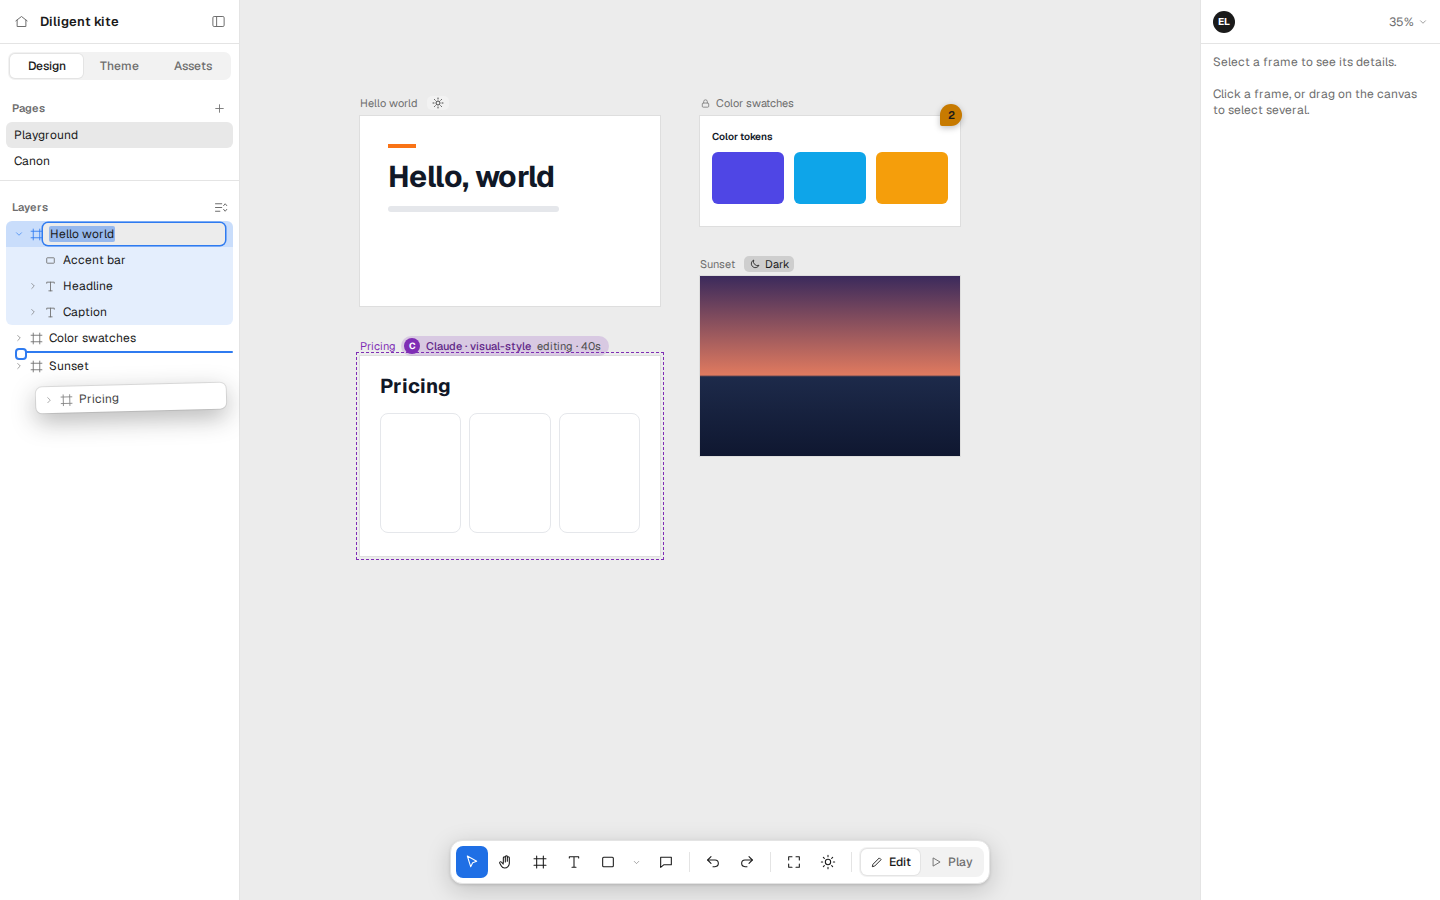
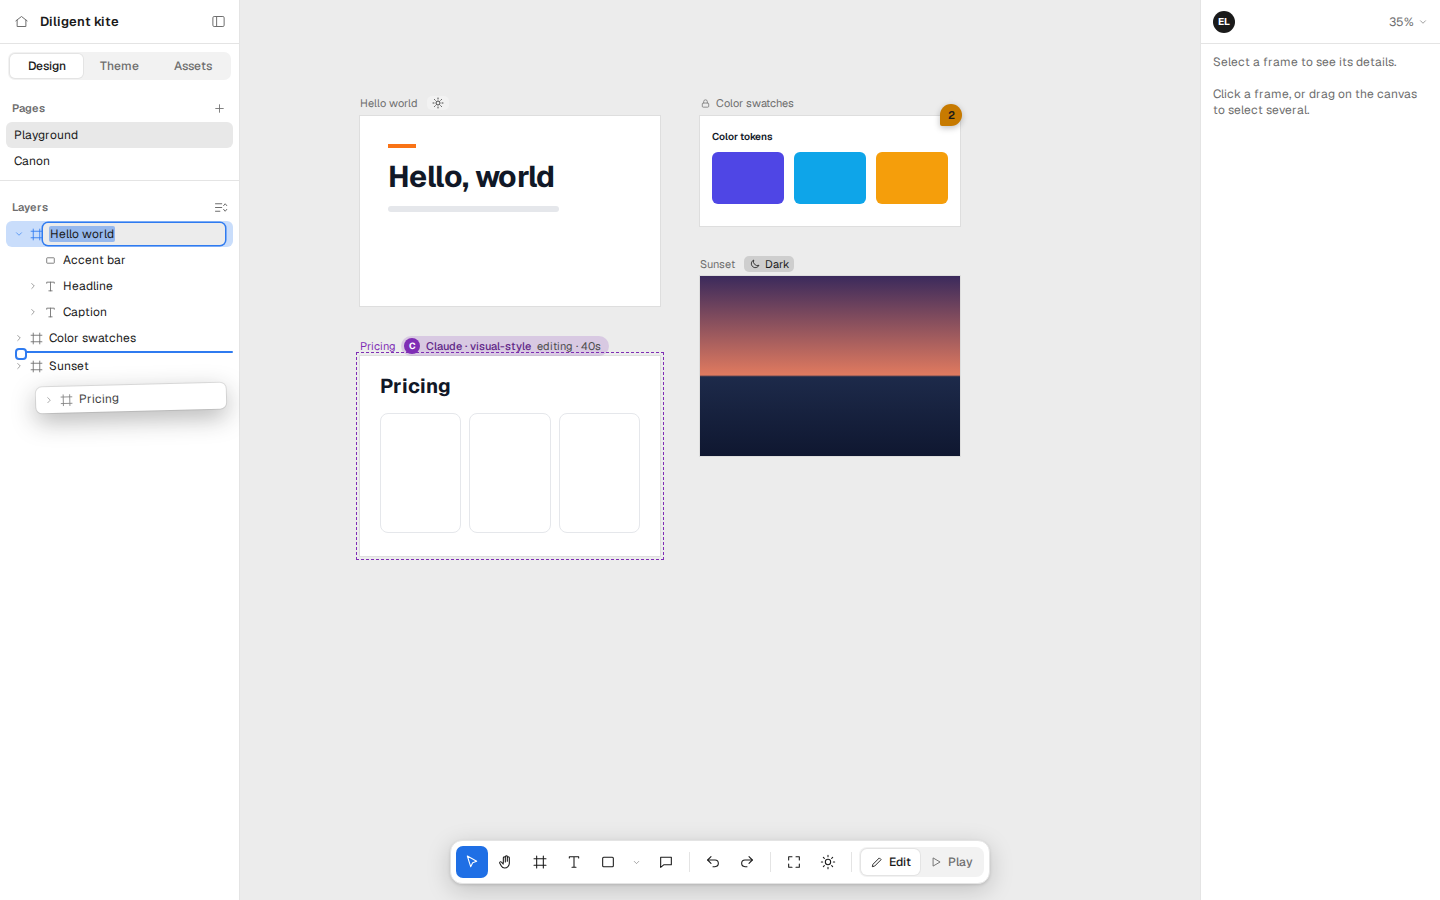
docs(design): redraw layers edit with only the selected row tinted

Changed region(s): [[0.0, 0.2489, 0.1875, 0.3733]]

diff --git a/canon/design/layers/edit.html b/canon/design/layers/edit.html
@@ -239,23 +239,8 @@
         transform: translate(30px, 6px) rotate(-1.5deg);
         width: 190px;
       }
-      .selband {
-        margin: 0 6px;
-        border-radius: 6px;
-        overflow: hidden;
-      }
-      .selband .row {
-        margin: 0;
-        border-radius: 0;
-      }
-      .row.inband {
-        background: color-mix(in srgb, var(--accent) 7%, transparent);
-      }
       .row.selrow {
         background: color-mix(in srgb, var(--accent) 26%, transparent);
-      }
-      .row.child {
-        background: color-mix(in srgb, var(--accent) 13%, transparent);
       }
       .row.selrow .ic {
         color: var(--accent);
@@ -1495,25 +1480,12 @@
             </svg>
           </button>
         </div>
-        <div class="selband">
-          <div class="row selrow" style="padding-left: 8px">
-            <span class="tw"
-              ><svg
-                class="ic"
-                width="10"
-                height="10"
-                viewBox="0 0 24 24"
-                fill="none"
-                stroke="currentColor"
-                stroke-width="1.6"
-                stroke-linecap="round"
-                stroke-linejoin="round"
-              >
-                <path d="M6 9l6 6 6-6" /></svg></span
+        <div class="row selrow" style="padding-left: 8px">
+          <span class="tw"
             ><svg
               class="ic"
-              width="13"
-              height="13"
+              width="10"
+              height="10"
               viewBox="0 0 24 24"
               fill="none"
               stroke="currentColor"
@@ -1521,15 +1493,43 @@
               stroke-linecap="round"
               stroke-linejoin="round"
             >
-              <path d="M2 6h20M2 18h20M6 2v20M18 2v20" /></svg
-            ><span class="renbox"><span class="selt">Hello world</span></span>
-          </div>
-          <div class="row child" style="padding-left: 22px">
-            <span class="tw"></span
+              <path d="M6 9l6 6 6-6" /></svg></span
+          ><svg
+            class="ic"
+            width="13"
+            height="13"
+            viewBox="0 0 24 24"
+            fill="none"
+            stroke="currentColor"
+            stroke-width="1.6"
+            stroke-linecap="round"
+            stroke-linejoin="round"
+          >
+            <path d="M2 6h20M2 18h20M6 2v20M18 2v20" /></svg
+          ><span class="renbox"><span class="selt">Hello world</span></span>
+        </div>
+        <div class="row child" style="padding-left: 22px">
+          <span class="tw"></span
+          ><svg
+            class="ic"
+            width="13"
+            height="13"
+            viewBox="0 0 24 24"
+            fill="none"
+            stroke="currentColor"
+            stroke-width="1.6"
+            stroke-linecap="round"
+            stroke-linejoin="round"
+          >
+            <rect x="5" y="7" width="14" height="10" rx="1" /></svg
+          ><span class="nm">Accent bar</span>
+        </div>
+        <div class="row kids child" style="padding-left: 22px">
+          <span class="tw"
             ><svg
               class="ic"
-              width="13"
-              height="13"
+              width="10"
+              height="10"
               viewBox="0 0 24 24"
               fill="none"
               stroke="currentColor"
@@ -1537,27 +1537,27 @@
               stroke-linecap="round"
               stroke-linejoin="round"
             >
-              <rect x="5" y="7" width="14" height="10" rx="1" /></svg
-            ><span class="nm">Accent bar</span>
-          </div>
-          <div class="row kids child" style="padding-left: 22px">
-            <span class="tw"
-              ><svg
-                class="ic"
-                width="10"
-                height="10"
-                viewBox="0 0 24 24"
-                fill="none"
-                stroke="currentColor"
-                stroke-width="1.6"
-                stroke-linecap="round"
-                stroke-linejoin="round"
-              >
-                <path d="M9 6l6 6-6 6" /></svg></span
+              <path d="M9 6l6 6-6 6" /></svg></span
+          ><svg
+            class="ic"
+            width="13"
+            height="13"
+            viewBox="0 0 24 24"
+            fill="none"
+            stroke="currentColor"
+            stroke-width="1.6"
+            stroke-linecap="round"
+            stroke-linejoin="round"
+          >
+            <path d="M5 6V4h14v2M12 4v16M9 20h6" /></svg
+          ><span class="nm">Headline</span>
+        </div>
+        <div class="row kids child" style="padding-left: 22px">
+          <span class="tw"
             ><svg
               class="ic"
-              width="13"
-              height="13"
+              width="10"
+              height="10"
               viewBox="0 0 24 24"
               fill="none"
               stroke="currentColor"
@@ -1565,37 +1565,20 @@
               stroke-linecap="round"
               stroke-linejoin="round"
             >
-              <path d="M5 6V4h14v2M12 4v16M9 20h6" /></svg
-            ><span class="nm">Headline</span>
-          </div>
-          <div class="row kids child" style="padding-left: 22px">
-            <span class="tw"
-              ><svg
-                class="ic"
-                width="10"
-                height="10"
-                viewBox="0 0 24 24"
-                fill="none"
-                stroke="currentColor"
-                stroke-width="1.6"
-                stroke-linecap="round"
-                stroke-linejoin="round"
-              >
-                <path d="M9 6l6 6-6 6" /></svg></span
-            ><svg
-              class="ic"
-              width="13"
-              height="13"
-              viewBox="0 0 24 24"
-              fill="none"
-              stroke="currentColor"
-              stroke-width="1.6"
-              stroke-linecap="round"
-              stroke-linejoin="round"
-            >
-              <path d="M5 6V4h14v2M12 4v16M9 20h6" /></svg
-            ><span class="nm">Caption</span>
-          </div>
+              <path d="M9 6l6 6-6 6" /></svg></span
+          ><svg
+            class="ic"
+            width="13"
+            height="13"
+            viewBox="0 0 24 24"
+            fill="none"
+            stroke="currentColor"
+            stroke-width="1.6"
+            stroke-linecap="round"
+            stroke-linejoin="round"
+          >
+            <path d="M5 6V4h14v2M12 4v16M9 20h6" /></svg
+          ><span class="nm">Caption</span>
         </div>
         <div class="row kids" style="padding-left: 8px">
           <span class="tw"
